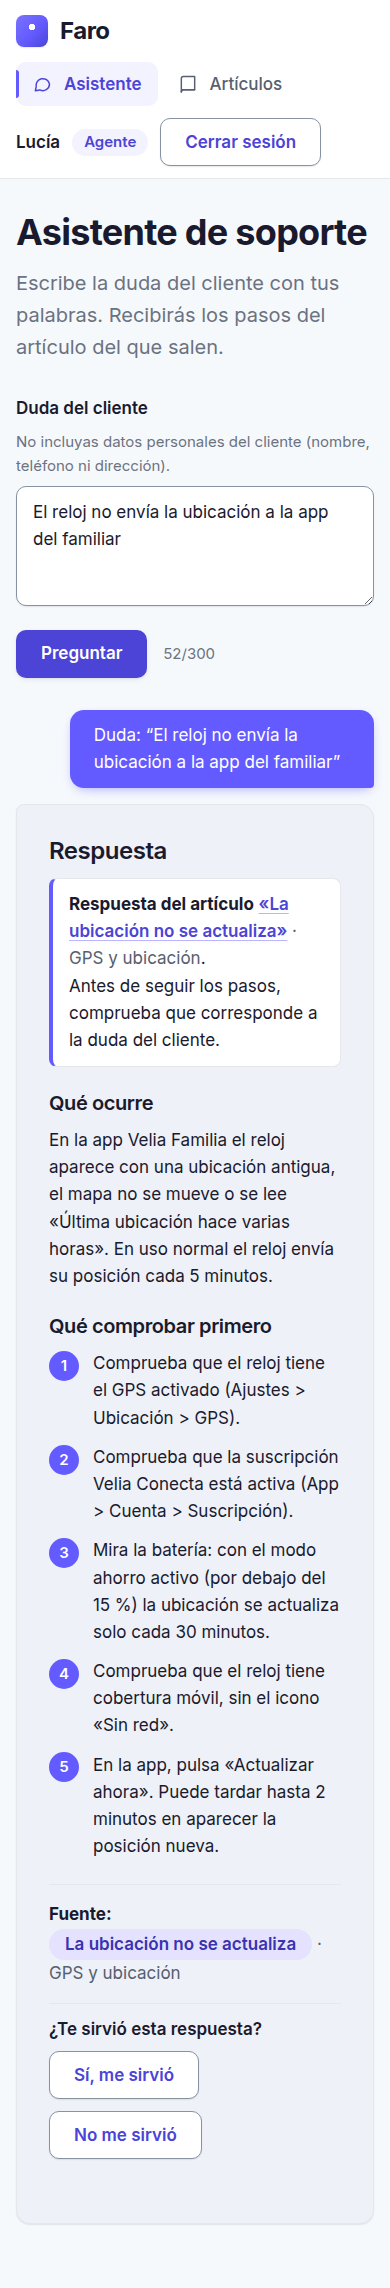
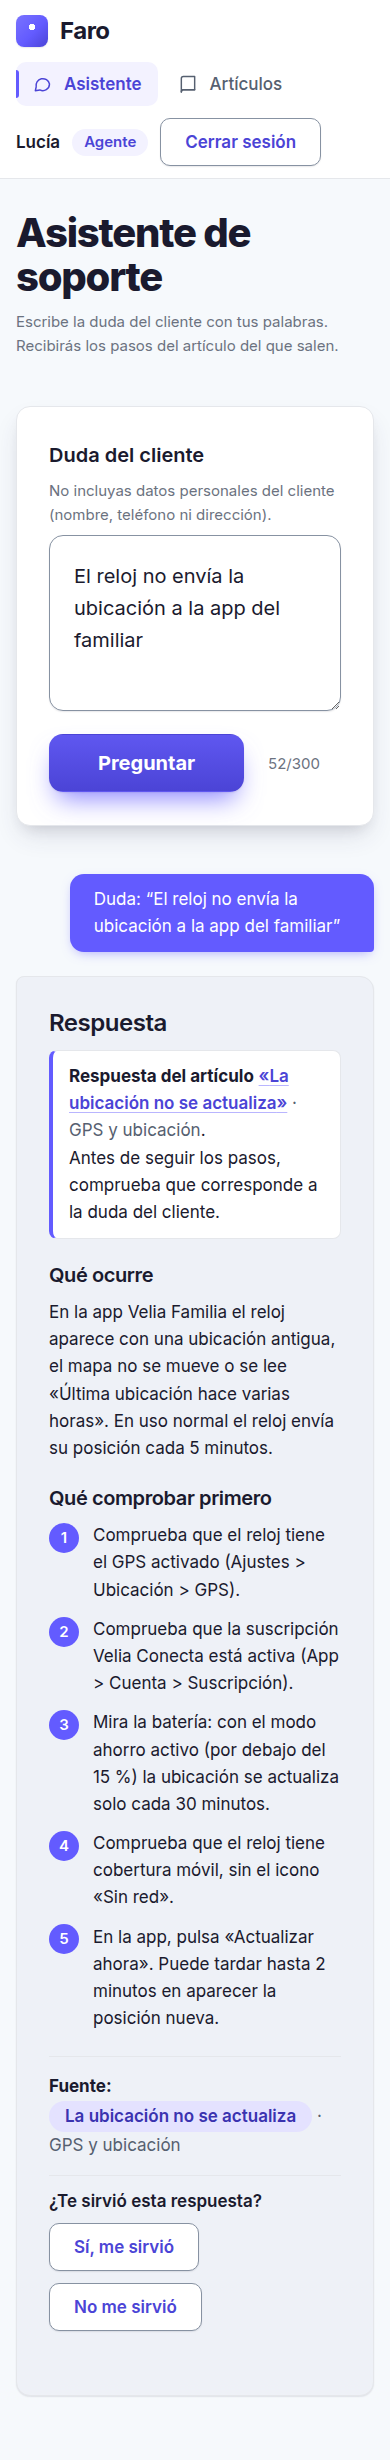
Asistente: título más grande, formulario en tarjeta con más aire y botón principal destacado
Título 40-56 px con peso 800; descripción pequeña en gris suave (4,6:1); campo de
11 rem con relleno amplio; botón de 56 px con degradado y brillo violeta; más
separación entre secciones. Solo estilos y una clase en el h1. axe con contraste
en navegador real: 0 violaciones; 402 tests.

Claude-Session: https://claude.ai/code/session_014X62RLLdPC6ewQNj8BPKLC

Changed region(s): [[0.0308, 0.0, 0.9846, 0.962], [0.8615, 0.2483, 0.8923, 0.2793]]

diff --git a/src/pages/AssistantPage.module.css b/src/pages/AssistantPage.module.css
@@ -1,18 +1,68 @@
-.intro {
-  color: var(--color-text-muted);
-  font-size: var(--text-lg);
-  margin-bottom: var(--space-6);
-  max-width: 44rem;
+/* Cabecera: título grande y con peso; descripción pequeña y en gris suave (muted: 4,6:1 sobre el fondo, AA). */
+.title {
+  margin-bottom: var(--space-3);
+  font-size: clamp(2.5rem, 5vw, 3.5rem);
+  font-weight: 800;
+  line-height: 1.08;
+  letter-spacing: -0.03em;
 }
 
+.intro {
+  max-width: 36rem;
+  margin-bottom: var(--space-7);
+  font-size: var(--text-sm);
+  line-height: 1.6;
+  color: var(--color-text-muted);
+}
+
+/* Formulario: una tarjeta propia, con más aire dentro y entre sus elementos. */
 .form {
   max-width: 46rem;
+  padding: var(--space-6);
+  background: var(--color-surface);
+  border: 1px solid var(--color-border);
+  border-radius: var(--radius-lg);
+  box-shadow: var(--shadow-lg);
+}
+
+/* Etiqueta y campo (los estilos base están en ui/Field; el selector con tipo supera su especificidad). */
+.form label {
+  font-size: var(--text-lg);
+}
+.form textarea {
+  min-height: 11rem;
+  padding: var(--space-5);
+  font-size: var(--text-lg);
+  line-height: 1.6;
+  border-radius: var(--radius-lg);
 }
 
 .actions {
   display: flex;
+  flex-wrap: wrap;
   align-items: center;
-  gap: var(--space-4);
+  gap: var(--space-5);
+  margin-top: var(--space-2);
+}
+
+/* Botón principal: más grande, con relieve y un brillo violeta. */
+.actions button {
+  min-height: 3.5rem;
+  padding: var(--space-3) var(--space-7);
+  font-size: var(--text-lg);
+  font-weight: var(--weight-bold);
+  border-radius: var(--radius-lg);
+  background: linear-gradient(180deg, #6c64ff, var(--color-brand-600));
+  box-shadow: 0 10px 22px -8px rgb(99 91 255 / 0.65), var(--shadow-sm);
+  transition: transform var(--transition), box-shadow var(--transition), background var(--transition);
+}
+.actions button:hover:not(:disabled) {
+  background: linear-gradient(180deg, #5f57f0, var(--color-brand-700));
+  box-shadow: 0 14px 26px -8px rgb(99 91 255 / 0.75), var(--shadow-sm);
+  transform: translateY(-1px);
+}
+.actions button:active:not(:disabled) {
+  transform: translateY(0);
 }
 
 .counter {
@@ -23,10 +73,10 @@
 /* Conversación: la duda a la derecha (burbuja violeta) y la respuesta a la izquierda (gris claro). */
 .results {
   max-width: 46rem;
-  margin-top: var(--space-6);
+  margin-top: var(--space-7);
   display: flex;
   flex-direction: column;
-  gap: var(--space-4);
+  gap: var(--space-5);
 }
 
 .asked {

diff --git a/src/pages/AssistantPage.tsx b/src/pages/AssistantPage.tsx
@@ -114,7 +114,7 @@ export function AssistantPage() {
 
   return (
     <>
-      <h1>Asistente de soporte</h1>
+      <h1 className={styles.title}>Asistente de soporte</h1>
       <p className={styles.intro}>
         Escribe la duda del cliente con tus palabras. Recibirás los pasos del artículo del que salen.
       </p>
